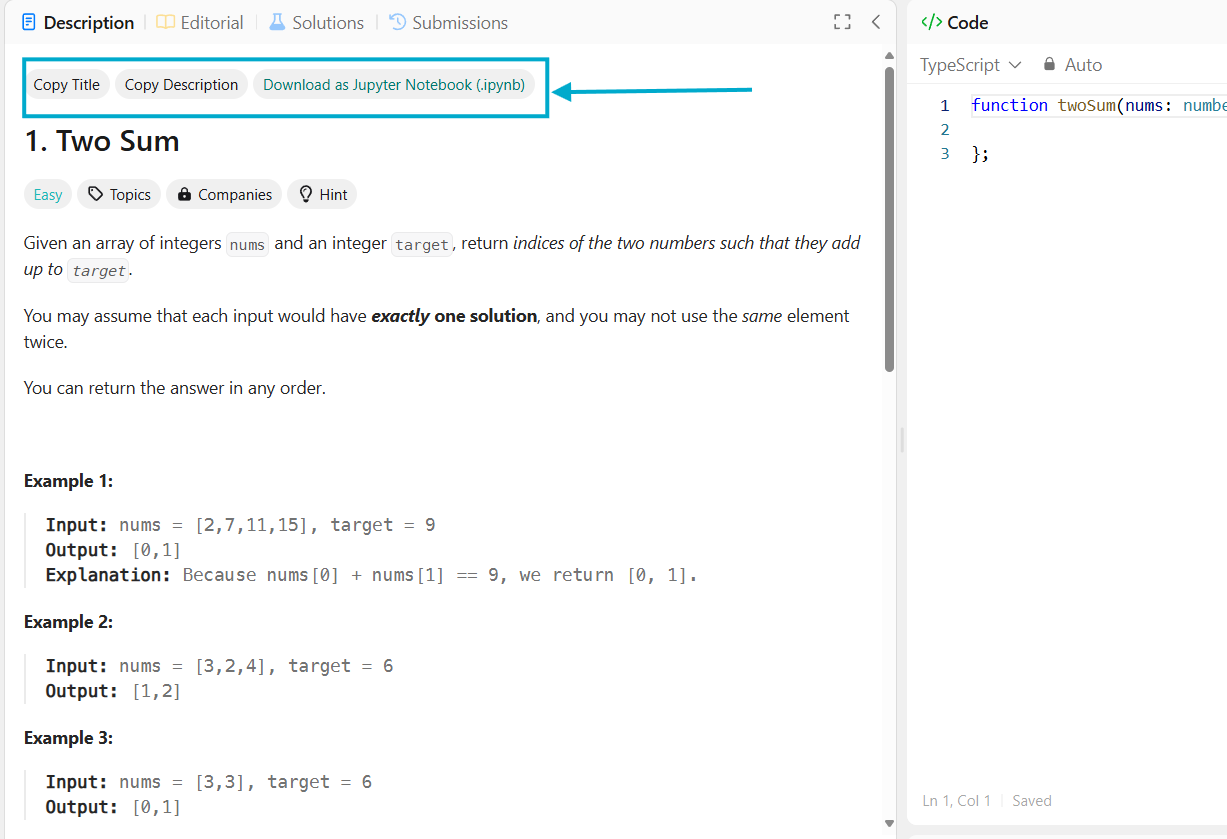
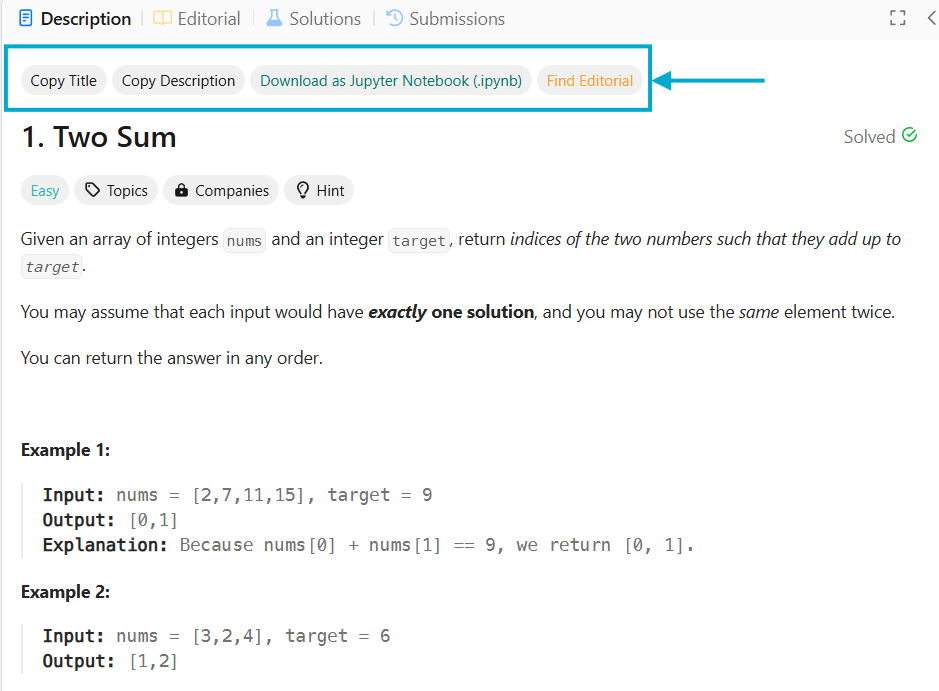
feat: add "Find Editorial" button and functionality to access editorial screenshots

diff --git a/vite.config.ts b/vite.config.ts
@@ -13,7 +13,7 @@ export default defineConfig({
                     "zh-CN": "LeetCode工具箱",
                 },
                 description: {
-                    "": "Copy problem as Markdown, Download as Jupyter Notebook, Format on Save, IntelliSense",
+                    "": "Copy problem as Markdown, Download as Jupyter Notebook, Format on Save, Unlock Editorial & IntelliSense",
                     "zh-CN":
                         "复制题目为 Markdown | 下载为 Jupyter Notebook | 保存时自动格式化 | 免费自动补全",
                 },
@@ -29,9 +29,13 @@ export default defineConfig({
                     "*://leetcode.com/problems/*/post-solution/*",
                     "*://leetcode.cn/problems/*/post-solution/*", // untested
                 ],
-                version: "2.0.2",
+                version: "2.1.0",
                 license: "MIT",
                 icon: "https://www.google.com/s2/favicons?sz=64&domain=leetcode.com",
+                resource: {
+                    editorials:
+                        "https://raw.githubusercontent.com/akhilkammila/leetcode-screenshotter/refs/heads/main/ReadMe.md",
+                },
             },
         }),
     ],

diff --git a/src/lib/utils/editorial-screenshot.ts b/src/lib/utils/editorial-screenshot.ts
@@ -1,0 +1,24 @@
+import { GM_getResourceText } from "$";
+const editorialsMarkdown = GM_getResourceText("editorials");
+
+/** Extracts the screenshot link for a given LeetCode problem title from markdown content */
+export function extractScreenshotLink(problemTitle: string) {
+    // Clean the problem title for reliable matching
+    const cleanTitle = problemTitle.trim();
+
+    // Create a regex pattern that looks for the heading with the problem title
+    // Format is #### [1. Two Sum](https://github.com/...)
+    const headingPattern = new RegExp(
+        `####\\s+\\[${cleanTitle.replace(
+            /[.*+?^${}()|[\]\\]/g,
+            "\\$&"
+        )}\\]\\((.*?)\\)`,
+        "i"
+    );
+
+    // Search for the pattern in the markdown
+    const match = editorialsMarkdown.match(headingPattern);
+
+    // Return the captured URL or null if not found
+    return match ? match[1] : null;
+}

diff --git a/src/find-editorial-screenshot.svelte b/src/find-editorial-screenshot.svelte
@@ -1,0 +1,22 @@
+<script lang="ts">
+    import Button from "./lib/components/Button.svelte";
+    import { getTitle } from "./copy-title.svelte";
+    import { extractScreenshotLink } from "./lib/utils/editorial-screenshot";
+    import { toast } from "svelte-sonner";
+
+    async function goToEditorialScreenshot() {
+        const title = await getTitle();
+        const link = extractScreenshotLink(title);
+        if (link) {
+            window.open(link, "_blank");
+        } else {
+            toast.warning(
+                `Editorial screenshot not found for problem: ${title}`
+            );
+        }
+    }
+</script>
+
+<Button style="color: rgb(255, 161, 22)" onclick={goToEditorialScreenshot}>
+    Find Editorial
+</Button>

diff --git a/src/App.svelte b/src/App.svelte
@@ -5,6 +5,7 @@
     import DownloadAsJupyter from "./download-as-jupyter.svelte";
     import { state } from "./lib/utils/state.svelte";
     import { toast } from "svelte-sonner";
+    import FindEditorialScreenshot from "./find-editorial-screenshot.svelte";
 
     // format on save
     document.addEventListener("keydown", async () => {
@@ -25,4 +26,7 @@
     <CopyTitle />
     <CopyDescription />
     <DownloadAsJupyter />
+    {#if state.site === "global"}
+        <FindEditorialScreenshot />
+    {/if}
 </div>

diff --git a/README.md b/README.md
@@ -11,20 +11,17 @@
 
 ## Feature
 
-This userscript enhances the LeetCode problem page by adding three buttons:
+This userscript enhances the LeetCode problem page with various tweaking and additions. It supports both the US version of [LeetCode.com](https://leetcode.com), and [the China version](https://leetcode.cn).
 
--   **Copy Title**
--   **Copy Description:** Copies the problem description in Markdown format, making it easy to paste into your notes or documentation.
--   **Download as Jupyter Notebook:** Bundles the title, description in Markdown, and the current content in the code editor into a single `.ipynb` file.
-
-Additionally, it also add these quality-of-life adjustment:
-
--   **Format On Save:** Automatically format code when pressing <kbd>Ctrl + S</kbd>.
--   **Unlock IntelliSense:** Enjoy autocompletion and hover suggestions without paying for premium.
-
----
-
-The script supports both the US version of [LeetCode.com](https://leetcode.com), and [the China version](https://leetcode.cn).
+-   At the top of problem description, these buttons are added:
+    -   **Copy Title**
+    -   **Copy Description:** Copies the problem description in Markdown format, making it easy to paste into your notes or documentation.
+    -   **Download as Jupyter Notebook:** Bundles the title, description in Markdown, and the current content in the code editor into a single `.ipynb` file.
+    -   **Find Editorial:** Open a screenshot of the Editorial for the current problem, if it exists in the [Leetcode Screenshotter](https://github.com/akhilkammila/leetcode-screenshotter) repo.
+        -   This is for US site only, as China site do not seem to lock their editorials behind premium.
+-   Quality-of-life adjustments:
+    -   **Format On Save:** Automatically format code when pressing <kbd>Ctrl + S</kbd>.
+    -   **Unlock IntelliSense:** Enjoy autocompletion and hover suggestions without paying for premium.
 
 ## Screenshots
 
@@ -81,7 +78,8 @@ To use this userscript, you'll need a userscript manager like [Tampermonkey](htt
 
 This script is inspired by the following projects:
 
--   [LeetCode Problem to Markdown](https://greasyfork.org/en/scripts/448601).
+-   [Leetcode Screenshotter](https://github.com/akhilkammila/leetcode-screenshotter)
+-   [LeetCode Problem to Markdown](https://greasyfork.org/en/scripts/448601)
 -   [leetcode enhanced code editor](https://greasyfork.org/en/scripts/502740-leetcode-enhanced-code-editor)
 -   [Leetcode: format on save](https://greasyfork.org/en/scripts/481927-leetcode-format-on-save)
 

diff --git a/README-ZH.md b/README-ZH.md
@@ -11,18 +11,17 @@
 
 ## 特性
 
-这个用户脚本通过添加三个按钮来增强 LeetCode 问题页面:
+该用户脚本通过各种调整和添加增强了 LeetCode 问题页面。它既支持 [LeetCode 美国站](https://leetcode.com)，也支持 [力扣中国站](https://leetcode.cn)。
 
--   **复制标题**
--   **复制描述：** 以 Markdown 格式复制问题描述，方便粘贴到您的笔记或文档中。
--   **下载为 Jupyter Notebook:** 将标题、描述（Markdown）和代码编辑器的当前内容捆绑到一个 `.ipynb` 文件中。
-
-此外，还支持以下便利功能：
-
--   **保存时格式化代码：** 按下 <kbd>Ctrl + S</kbd> 时将自动格式化代码。
--   **解锁 IntelliSense：** 享受自动补全、悬浮建议等功能，无需购买会员。
-
-此脚本既支持 [LeetCode 美国站](https://leetcode.com)，也支持 [力扣中国站](https://leetcode.cn)。
+-   在问题描述的顶部，添加了这些按钮：
+    -   **复制标题**
+    -   **复制描述：** 以 Markdown 格式复制问题描述，方便粘贴到您的笔记或文档中。
+    -   **下载为 Jupyter Notebook:** 将标题、描述（Markdown）和代码编辑器的当前内容捆绑到一个 `.ipynb` 文件中。
+    -   **寻找官方题解**：打开当前问题的官方题解截图，只要该截图存在于[Leetcode Screenshotter](https://github.com/akhilkammila/leetcode-screenshotter) repo 中。
+        -   此功能仅供美国站，因为中国站似乎并不需要会员就能查看官方题解。
+-   便利功能：
+    -   **保存时格式化代码：** 按下 <kbd>Ctrl + S</kbd> 时将自动格式化代码。
+    -   **解锁 IntelliSense：** 享受自动补全、悬浮建议等功能，无需购买会员。
 
 ## 截图
 
@@ -79,7 +78,8 @@
 
 此脚本受以下项目启发：
 
--   [LeetCode Problem to Markdown](https://greasyfork.org/en/scripts/448601).
+-   [Leetcode Screenshotter](https://github.com/akhilkammila/leetcode-screenshotter)
+-   [LeetCode Problem to Markdown](https://greasyfork.org/en/scripts/448601)
 -   [leetcode enhanced code editor](https://greasyfork.org/en/scripts/502740-leetcode-enhanced-code-editor)
 -   [Leetcode: format on save](https://greasyfork.org/en/scripts/481927-leetcode-format-on-save)
 
